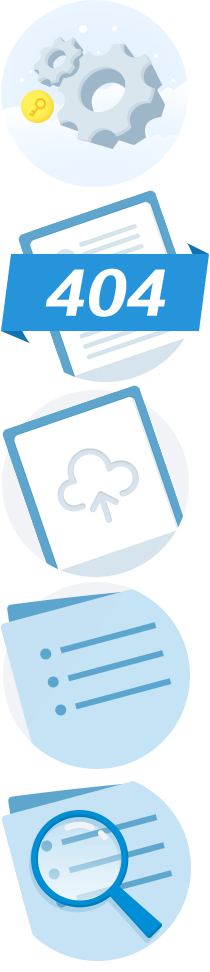
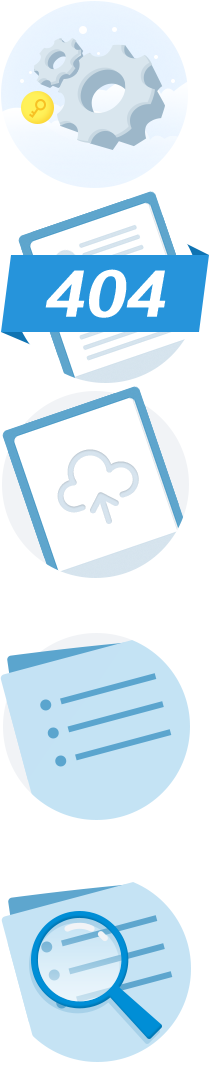
m

diff --git a/src/containers/Search/Search.scss b/src/containers/Search/Search.scss
@@ -63,7 +63,7 @@ $imgUrl: '../../../static/images/';
 	  padding: 160px 0;
 	  overflow: hidden;
 	  &-logo{
-	    background:url("#{$imgUrl}noMatchIcon.png") 0 -775px no-repeat;
+	    background:url("#{$imgUrl}noMatchIcon.png") 0 -874px no-repeat;
 	    width:210px;
 	    height:192px;
 	    display:inline-block;

diff --git a/src/containers/Notification/Notification.scss b/src/containers/Notification/Notification.scss
@@ -36,7 +36,7 @@
       width: 191px;
       display: block;
       margin: 196px auto 0;
-      background: url(#{$imgUrl}noMatchIcon.png) 0 -583px no-repeat ;
+      background: url(#{$imgUrl}noMatchIcon.png) 0 -632px no-repeat ;
       padding-top: 200px;
       font-size: 16px;
       color: $text-grey;
